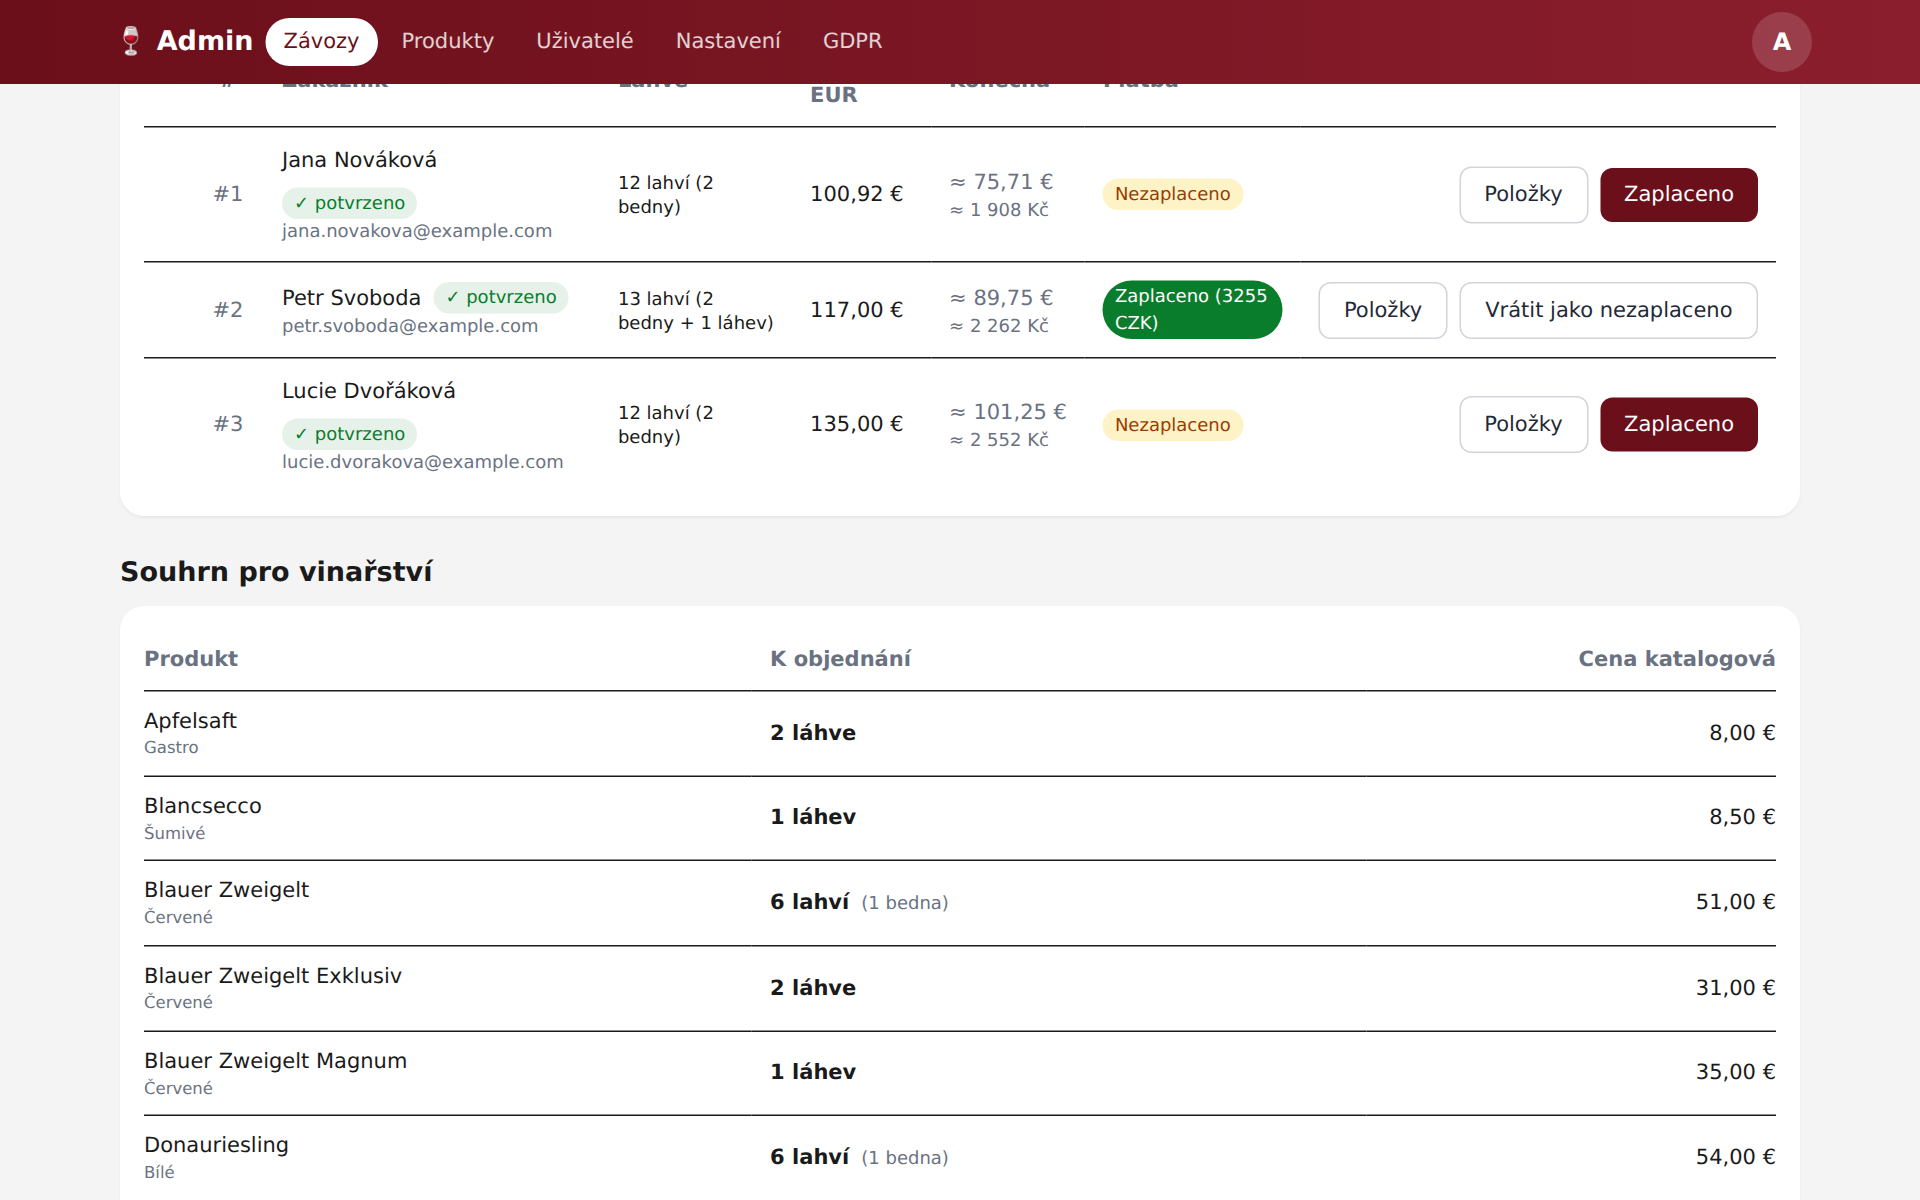
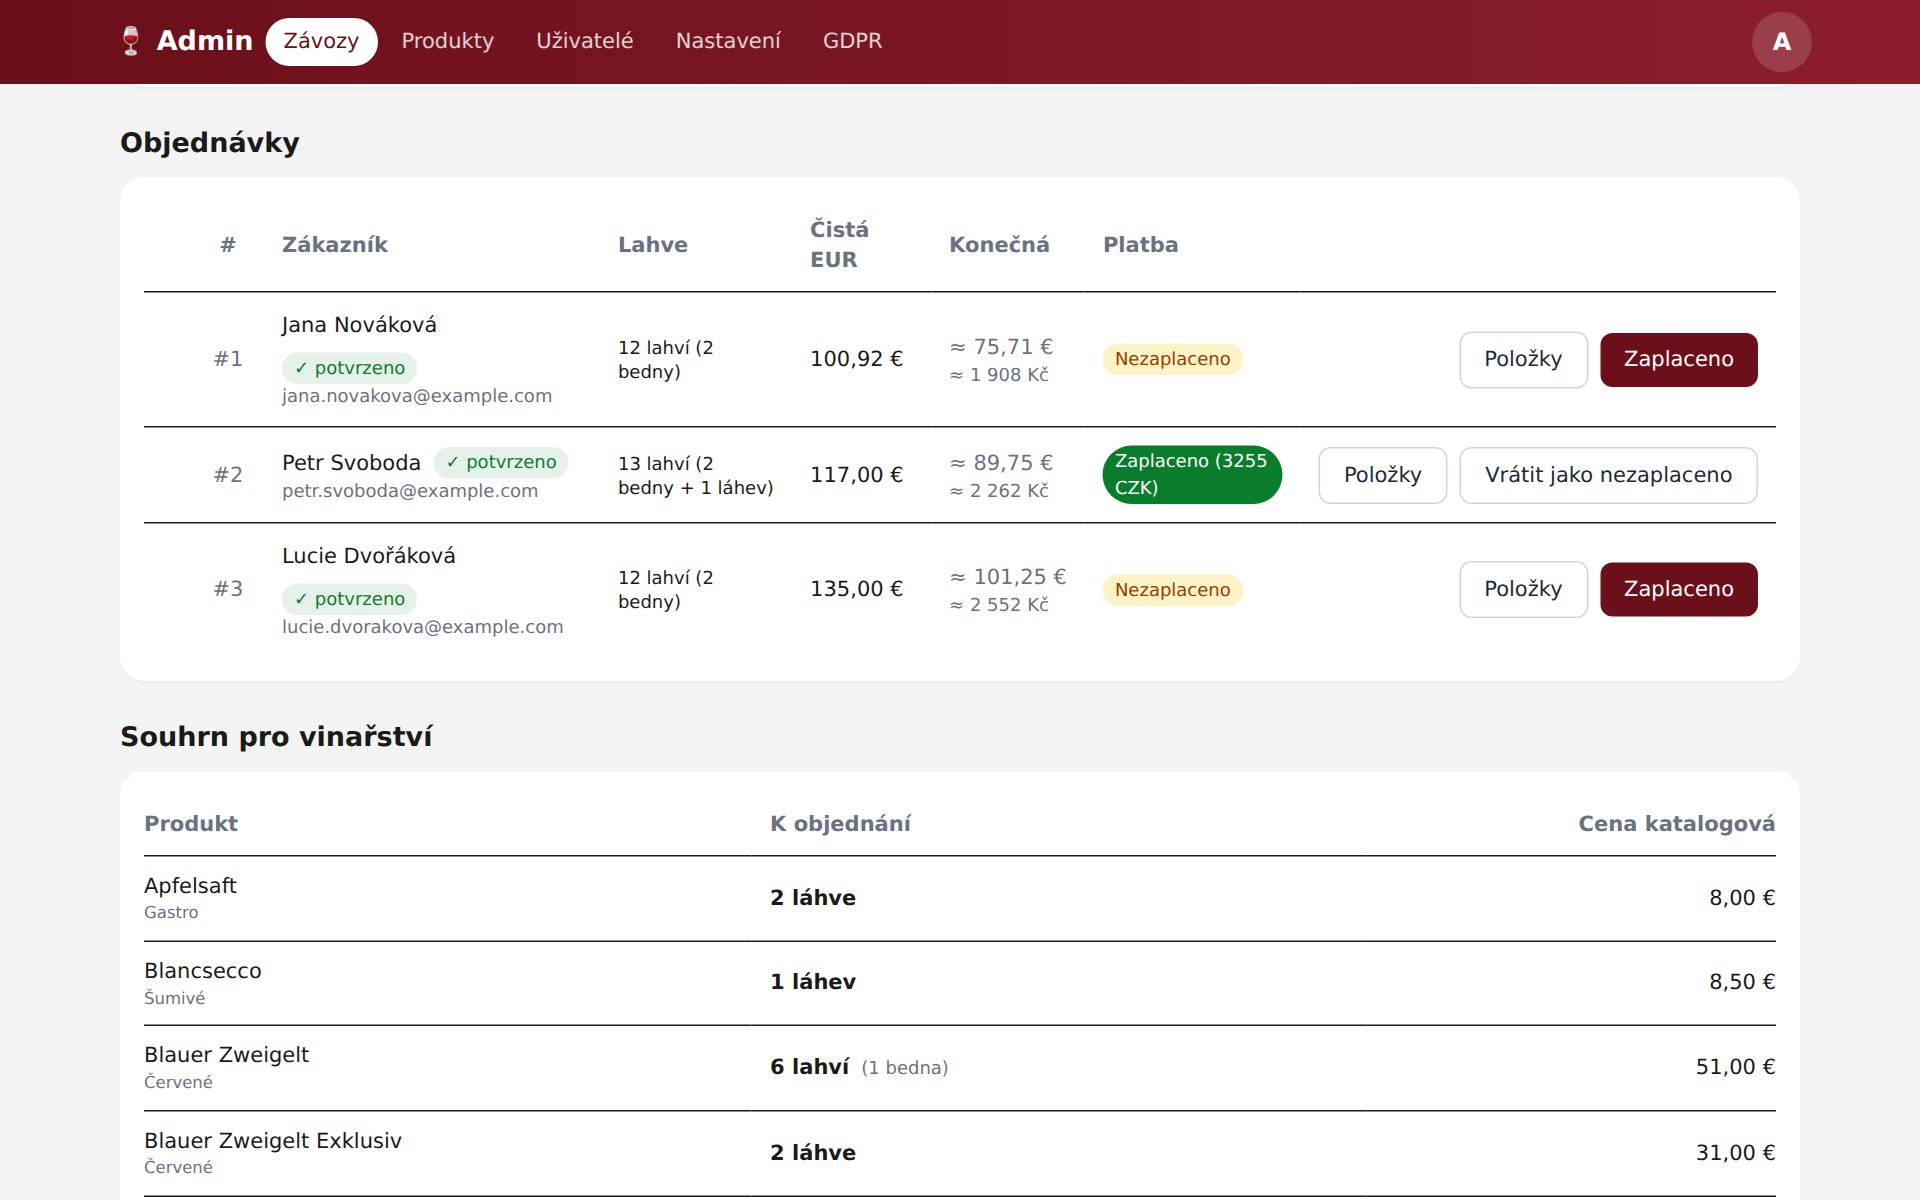
Portfolio: Upečíno screenshots (WebP)
Claude-Session: https://claude.ai/code/session_01RaNZvChbJumPsyXGRwBJQk

diff --git a/index.html b/index.html
@@ -272,17 +272,20 @@
           <button class="project__cover" type="button" aria-label="Otevřít galerii: Upečíno">
             <div class="project__bar"><span></span><span></span><span></span><em>upecino.cz</em></div>
             <div class="project__shot project__shot--desktop">
-              <img src="images/upecino/01-menu.png" alt="Upečíno: Týdenní nabídka a košík" loading="lazy">
+              <img src="images/upecino/01-menu.webp" alt="Upečíno: Týdenní nabídka a košík" loading="lazy">
             </div>
-            <span class="project__count"><svg viewBox="0 0 24 24" fill="none" stroke="currentColor" stroke-width="2"><rect x="3" y="3" width="18" height="18" rx="2"/><circle cx="8.5" cy="8.5" r="1.5"/><path d="M21 15l-5-5L5 21"/></svg>6 snímků</span>
+            <span class="project__count"><svg viewBox="0 0 24 24" fill="none" stroke="currentColor" stroke-width="2"><rect x="3" y="3" width="18" height="18" rx="2"/><circle cx="8.5" cy="8.5" r="1.5"/><path d="M21 15l-5-5L5 21"/></svg>9 snímků</span>
           </button>
           <ul class="project__gallery" hidden>
-              <li data-src="images/upecino/01-menu.png">Týdenní nabídka a košík</li>
-              <li data-src="images/upecino/02-account.png">Účet zákazníka</li>
-              <li data-src="images/upecino/03-admin-orders.png">Objednávky podle dnů pečení</li>
-              <li data-src="images/upecino/04-bake-plan.png">Co péct</li>
-              <li data-src="images/upecino/05-invoice.png">Vyúčtování s QR platbou</li>
-              <li data-src="images/upecino/06-mobile-menu.png">Nabídka v mobilu</li>
+              <li data-src="images/upecino/01-menu.webp">Týdenní nabídka pečiva s košíkem a uzávěrkami</li>
+              <li data-src="images/upecino/02-account.webp">Účet zákazníka: objednávka týdne a měsíční útrata</li>
+              <li data-src="images/upecino/02b-order.webp">Úprava objednávky s volbou způsobu převzetí</li>
+              <li data-src="images/upecino/03-admin-orders.webp">Administrace: objednávky podle dne pečení</li>
+              <li data-src="images/upecino/04-bake-plan.webp">Co péct: plán pečení s upečeným množstvím</li>
+              <li data-src="images/upecino/04b-delivery-run.webp">Rozvozový list a štítky na tašky</li>
+              <li data-src="images/upecino/05-invoice.webp">Měsíční faktura s QR platbou</li>
+              <li data-src="images/upecino/05b-billing.webp">Účetnictví: vystavení dokladů za měsíc</li>
+              <li data-src="images/upecino/06-mobile-menu.webp">Nabídka v mobilu</li>
           </ul>
           <div class="project__body">
             <div class="project__meta">
